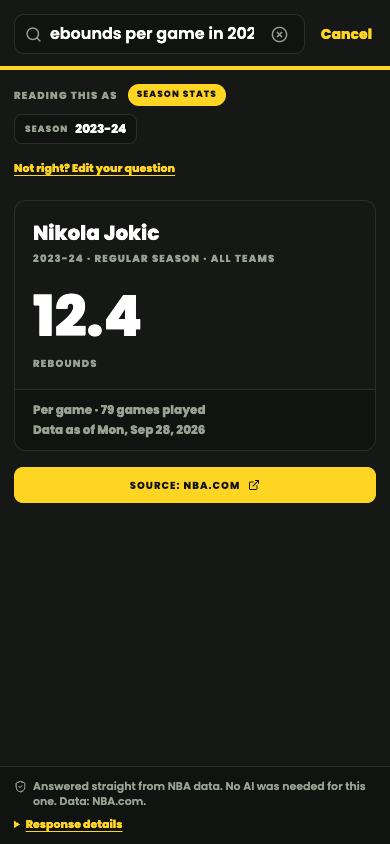
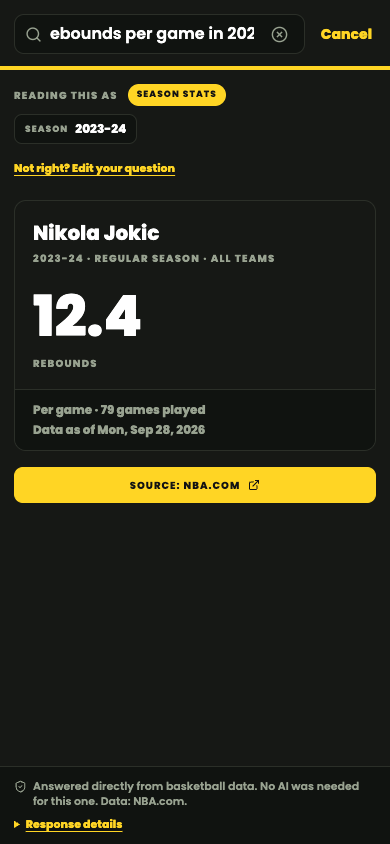
Complete Ask stage 2 handoff and source-aware footer copy (nba-scores-8k5)

Changed region(s): [[0.0923, 0.9242, 0.9231, 0.955]]

diff --git a/src/components/ask/askCopy.ts b/src/components/ask/askCopy.ts
@@ -4,7 +4,7 @@ export const ASK_PLACEHOLDER = "Ask about a game, stat, or series";
 
 export const ASK_SOURCE_COPY = "AI interprets your question. Answers use NBA data.";
 
-export const ASK_NO_MODEL_COPY = "Answered straight from NBA data. No AI was needed for this one.";
+export const ASK_NO_MODEL_COPY = "Answered directly from basketball data. No AI was needed for this one.";
 
 export const ASK_RECENT_COPY = "Recent searches are saved only in this browser, never with answers.";
 

diff --git a/docs/verification/ask-stage2-2026-09-29/README.md b/docs/verification/ask-stage2-2026-09-29/README.md
@@ -71,8 +71,7 @@ keyboard/screen-reader checks still remain.
 ## Final verified state
 
 After Opus's final recommended wording guard and extra abbreviation rewrites:
-**1,348 backend tests pass**. The frontend is unchanged from the last passing
-**478 tests**, lint and build. The final Opus review is saved in
+**1,348 backend tests pass**. Final frontend checks also pass: **478 tests**, lint and build. The final Opus review is saved in
 `opus-final-review.md`; it found no implementation blockers, and its remaining
 combined-phase wording recommendation was then implemented and tested. The
 review's deployment follow-ups remain open. `development-replay-reviewed-final.json`
@@ -87,3 +86,13 @@ source link per result on desktop light and mobile dark. Hardwood's Poppins
 font is loaded; Archivo is not used by that surface. These recaptures changed no
 product styles. The temporary port5292 server was stopped; the user's existing
 port5289 preview/backend8019 were left running.
+
+The final screenshot check caught source-specific wording in the existing
+zero-model footer: it said "NBA data" even on a BRef answer. The footer now says
+"basketball data", with the actual named source still alongside it. Frontend
+tests, lint and build were rerun, and the verified screenshots recaptured.
+
+Stage 2 task **nba-scores-8k5** is closed. Deployment follow-ups remain open.
+Issue metadata was exported locally with no pull/push. Only the three Stage 2
+issue records are copied into this branch; other issue updates and original
+untracked files in the primary workspace are preserved.
